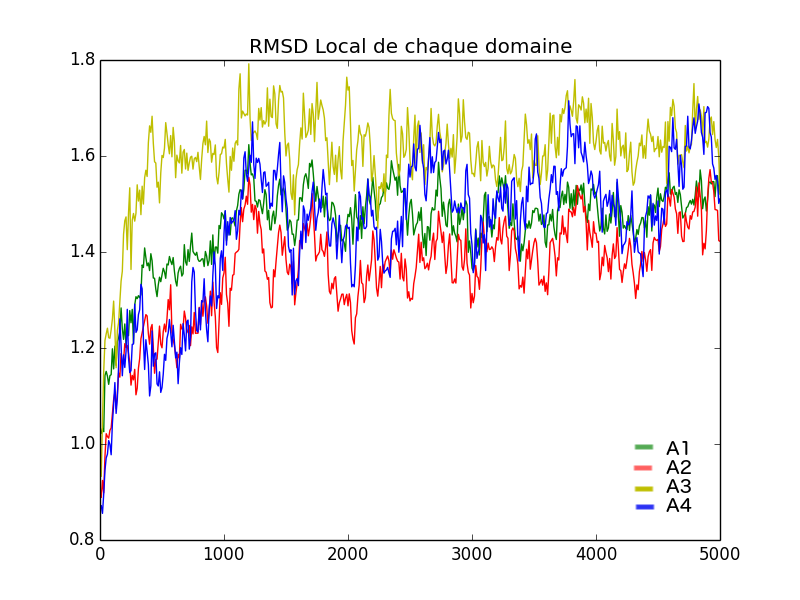
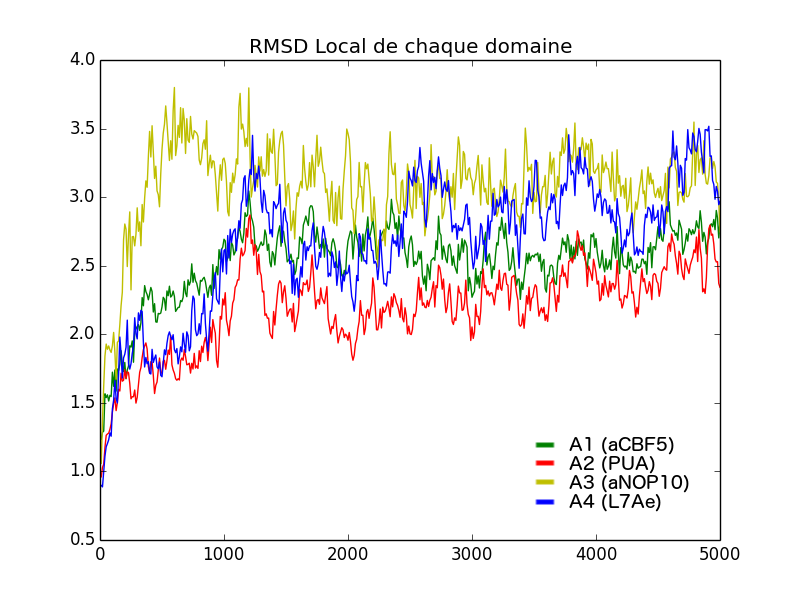
Version finale

diff --git a/RMSD.py b/RMSD.py
@@ -30,7 +30,7 @@ def RMSDglobal(parse1, parse2):
 
                 for atom in parse2[" "][residu2]["atomlist"]:
 
-                    somme += sqrt((parse2[" "][residu2][atom]['x'] - parse1[" "][residu1][atom]['x']) ** 2 +
+                    somme += ((parse2[" "][residu2][atom]['x'] - parse1[" "][residu1][atom]['x']) ** 2 +
                              (parse2[" "][residu2][atom]['y'] - parse1[" "][residu1][atom]['y']) ** 2 +
                              (parse2[" "][residu2][atom]['z'] - parse1[" "][residu1][atom]['z']) ** 2)
                     N += 1
@@ -62,7 +62,7 @@ def RMSDlocal(parse1, parse2, domain):
 
                     if parse2[" "][residu2][atom]['domain'] == domain:      #Si l'atome est dans le domaine voulu
 
-                        somme += sqrt((parse2[" "][residu2][atom]['x'] - parse1[" "][residu1][atom]['x']) ** 2 +
+                        somme += ((parse2[" "][residu2][atom]['x'] - parse1[" "][residu1][atom]['x']) ** 2 +
                                  (parse2[" "][residu2][atom]['y'] - parse1[" "][residu1][atom]['y']) ** 2 +
                                  (parse2[" "][residu2][atom]['z'] - parse1[" "][residu1][atom]['z']) ** 2)
                         N += 1

diff --git a/main.py b/main.py
@@ -53,7 +53,7 @@ for model in parse_frames.keys():
 
 sortieRMSD(RMSD)
 
-
+"""
 
 #####################################
 # Changements Conformationnels locaux
@@ -146,3 +146,4 @@ for paire in tpsContact.keys():
     f.write(str(tpsContact[paire]))
     f.write("\n")
 f.close()
+"""
